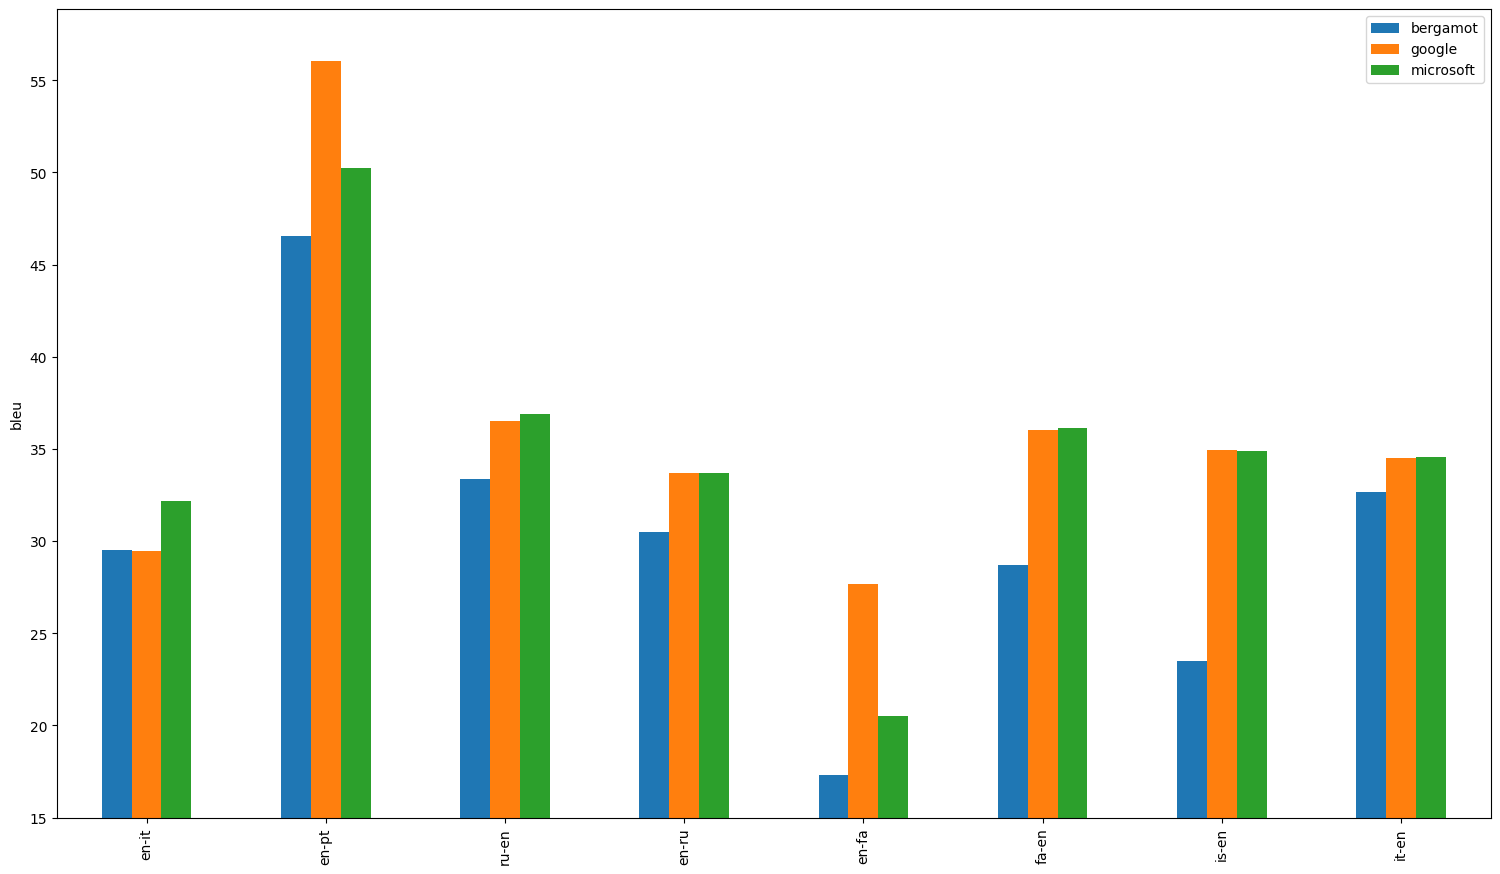
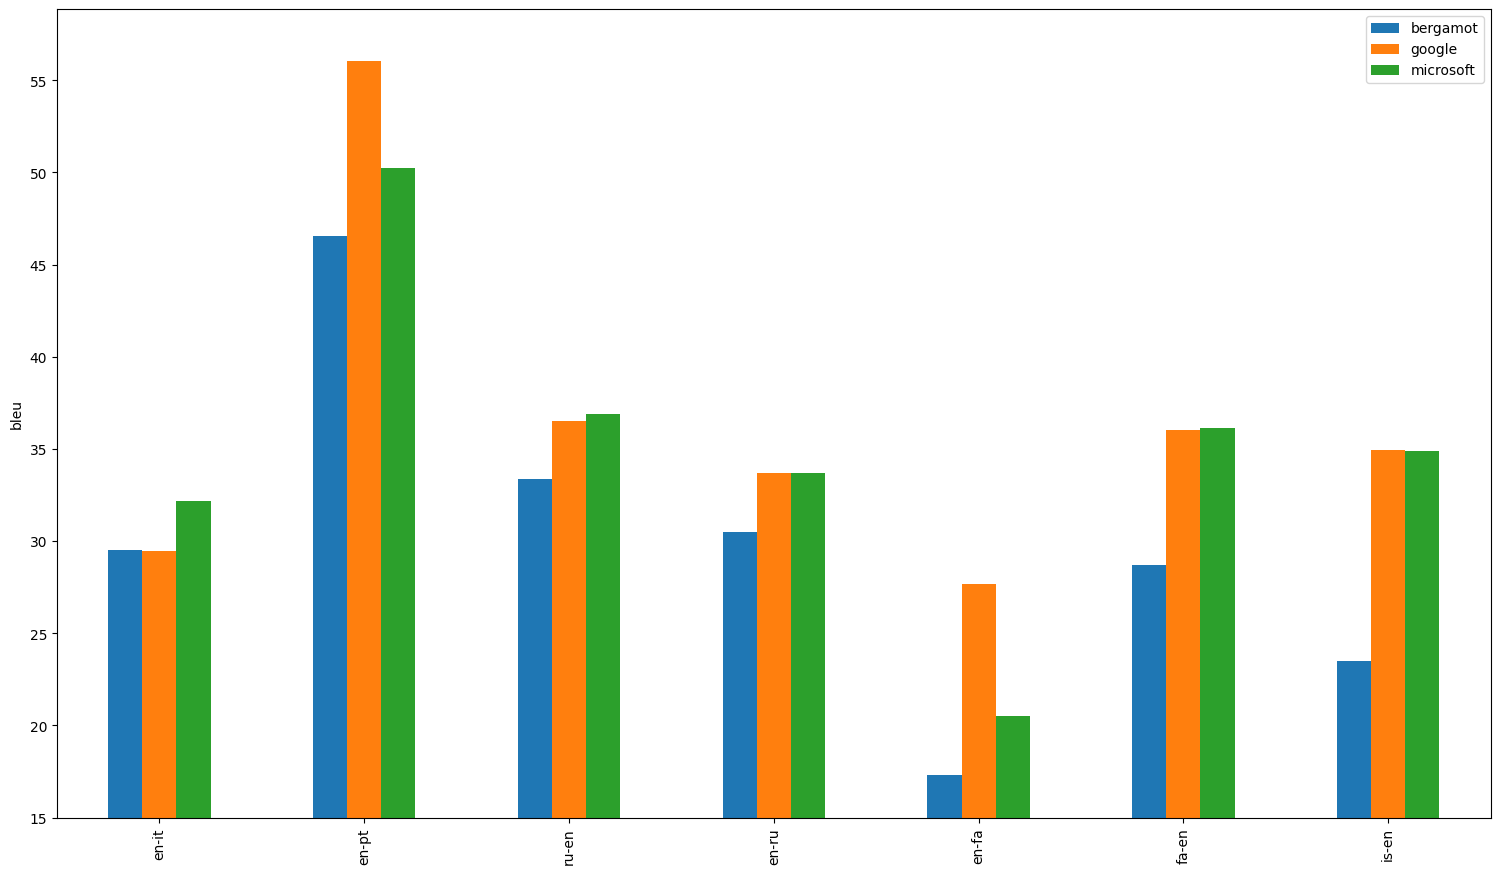
Update evaluation results [skip ci]

diff --git a/evaluation/prod/results.md b/evaluation/prod/results.md
@@ -57,11 +57,11 @@ Both absolute and relative differences in BLEU scores between Bergamot and other
 
 ## avg
 
-| Translator/Dataset | cs-en | en-et | et-en | nb-en | bg-en | en-es | en-bg | en-cs | de-en | pt-en | es-en | en-de |
-| --- | --- | --- | --- | --- | --- | --- | --- | --- | --- | --- | --- | --- |
-| bergamot | 30.34 | 25.50 | 32.37 | 37.60 | 38.50 | 32.41 | 42.10 | 24.65 | 33.51 | 44.87 | 32.38 | 32.27 |
-| google | 32.40 (+2.06, +6.80%) | 28.60 (+3.10, +12.16%) | 35.80 (+3.43, +10.61%) | 42.05 (+4.45, +11.84%) | 41.30 (+2.80, +7.27%) | 34.74 (+2.32, +7.17%) | 44.60 (+2.50, +5.94%) | 26.73 (+2.09, +8.47%) | 35.98 (+2.48, +7.39%) | 46.60 (+1.73, +3.86%) | 33.64 (+1.27, +3.91%) | 33.05 (+0.77, +2.40%) |
-| microsoft | 33.53 (+3.19, +10.53%) | 28.47 (+2.97, +11.63%) | 36.17 (+3.80, +11.74%) | 42.90 (+5.30, +14.10%) | 41.20 (+2.70, +7.01%) | 33.76 (+1.35, +4.17%) | 38.55 (-3.55, -8.43%) | 27.75 (+3.11, +12.60%) | 38.21 (+4.70, +14.03%) | 46.47 (+1.60, +3.57%) | 32.93 (+0.56, +1.72%) | 33.54 (+1.27, +3.93%) |
+| Translator/Dataset | cs-en | en-et | et-en | nb-en | bg-en | en-es | en-bg | en-cs | de-en | it-en | pt-en | es-en | en-de |
+| --- | --- | --- | --- | --- | --- | --- | --- | --- | --- | --- | --- | --- | --- |
+| bergamot | 30.34 | 25.50 | 32.37 | 37.60 | 38.50 | 32.41 | 42.10 | 24.65 | 33.51 | 32.67 | 44.87 | 32.38 | 32.27 |
+| google | 32.40 (+2.06, +6.80%) | 28.60 (+3.10, +12.16%) | 35.80 (+3.43, +10.61%) | 42.05 (+4.45, +11.84%) | 41.30 (+2.80, +7.27%) | 34.74 (+2.32, +7.17%) | 44.60 (+2.50, +5.94%) | 26.73 (+2.09, +8.47%) | 35.98 (+2.48, +7.39%) | 34.50 (+1.83, +5.59%) | 46.60 (+1.73, +3.86%) | 33.64 (+1.27, +3.91%) | 33.05 (+0.77, +2.40%) |
+| microsoft | 33.53 (+3.19, +10.53%) | 28.47 (+2.97, +11.63%) | 36.17 (+3.80, +11.74%) | 42.90 (+5.30, +14.10%) | 41.20 (+2.70, +7.01%) | 33.76 (+1.35, +4.17%) | 38.55 (-3.55, -8.43%) | 27.75 (+3.11, +12.60%) | 38.21 (+4.70, +14.03%) | 34.55 (+1.88, +5.74%) | 46.47 (+1.60, +3.57%) | 32.93 (+0.56, +1.72%) | 33.54 (+1.27, +3.93%) |
 
 ![Results](img/avg.png)
 
@@ -154,6 +154,16 @@ Both absolute and relative differences in BLEU scores between Bergamot and other
 | microsoft | 29.40 (+3.40, +13.08%) | 43.80 (+4.80, +12.31%) | 40.80 (+5.80, +16.57%) | 32.50 (+3.90, +13.64%) | 33.40 (+4.40, +15.17%) | 44.90 (+5.30, +13.38%) | 45.80 (+6.70, +17.14%) | 31.30 (+3.70, +13.41%) | 29.20 (+2.90, +11.03%) | 39.20 (+5.70, +17.01%) | 38.10 (+4.60, +13.73%) | 46.30 (+6.70, +16.92%) | 34.30 (+3.50, +11.36%) | 49.60 (+6.30, +14.55%) | 29.10 (+2.70, +10.23%) | 43.60 (+4.80, +12.37%) |
 
 ![Results](img/de-en.png)
+
+## it-en
+
+| Translator/Dataset | mtedx_test | flores-dev | flores-test | wmt09 |
+| --- | --- | --- | --- | --- |
+| bergamot | 35.70 | 31.10 | 30.40 | 33.50 |
+| google | 35.90 (+0.20, +0.56%) | 33.40 (+2.30, +7.40%) | 33.30 (+2.90, +9.54%) | 35.40 (+1.90, +5.67%) |
+| microsoft | 36.40 (+0.70, +1.96%) | 33.30 (+2.20, +7.07%) | 32.70 (+2.30, +7.57%) | 35.80 (+2.30, +6.87%) |
+
+![Results](img/it-en.png)
 
 ## pt-en
 

diff --git a/evaluation/dev/results.md b/evaluation/dev/results.md
@@ -57,11 +57,11 @@ Both absolute and relative differences in BLEU scores between Bergamot and other
 
 ## avg
 
-| Translator/Dataset | en-it | en-pt | ru-en | en-ru | en-fa | fa-en | is-en | it-en |
-| --- | --- | --- | --- | --- | --- | --- | --- | --- |
-| bergamot | 29.53 | 46.55 | 33.37 | 30.47 | 17.30 | 28.70 | 23.50 | 32.67 |
-| google | 29.47 (-0.07, -0.23%) | 56.05 (+9.50, +20.41%) | 36.53 (+3.15, +9.45%) | 33.72 (+3.25, +10.67%) | 27.70 (+10.40, +60.12%) | 36.05 (+7.35, +25.61%) | 34.95 (+11.45, +48.72%) | 34.50 (+1.83, +5.59%) |
-| microsoft | 32.20 (+2.67, +9.03%) | 50.25 (+3.70, +7.95%) | 36.87 (+3.50, +10.49%) | 33.68 (+3.21, +10.53%) | 20.50 (+3.20, +18.50%) | 36.15 (+7.45, +25.96%) | 34.90 (+11.40, +48.51%) | 34.55 (+1.88, +5.74%) |
+| Translator/Dataset | en-it | en-pt | ru-en | en-ru | en-fa | fa-en | is-en |
+| --- | --- | --- | --- | --- | --- | --- | --- |
+| bergamot | 29.53 | 46.55 | 33.37 | 30.47 | 17.30 | 28.70 | 23.50 |
+| google | 29.47 (-0.07, -0.23%) | 56.05 (+9.50, +20.41%) | 36.53 (+3.15, +9.45%) | 33.72 (+3.25, +10.67%) | 27.70 (+10.40, +60.12%) | 36.05 (+7.35, +25.61%) | 34.95 (+11.45, +48.72%) |
+| microsoft | 32.20 (+2.67, +9.03%) | 50.25 (+3.70, +7.95%) | 36.87 (+3.50, +10.49%) | 33.68 (+3.21, +10.53%) | 20.50 (+3.20, +18.50%) | 36.15 (+7.45, +25.96%) | 34.90 (+11.40, +48.51%) |
 
 ![Results](img/avg.png)
 
@@ -134,13 +134,3 @@ Both absolute and relative differences in BLEU scores between Bergamot and other
 | microsoft | 35.10 (+11.50, +48.73%) | 34.70 (+11.30, +48.29%) |
 
 ![Results](img/is-en.png)
-
-## it-en
-
-| Translator/Dataset | mtedx_test | flores-dev | flores-test | wmt09 |
-| --- | --- | --- | --- | --- |
-| bergamot | 35.70 | 31.10 | 30.40 | 33.50 |
-| google | 35.90 (+0.20, +0.56%) | 33.40 (+2.30, +7.40%) | 33.30 (+2.90, +9.54%) | 35.40 (+1.90, +5.67%) |
-| microsoft | 36.40 (+0.70, +1.96%) | 33.30 (+2.20, +7.07%) | 32.70 (+2.30, +7.57%) | 35.80 (+2.30, +6.87%) |
-
-![Results](img/it-en.png)
